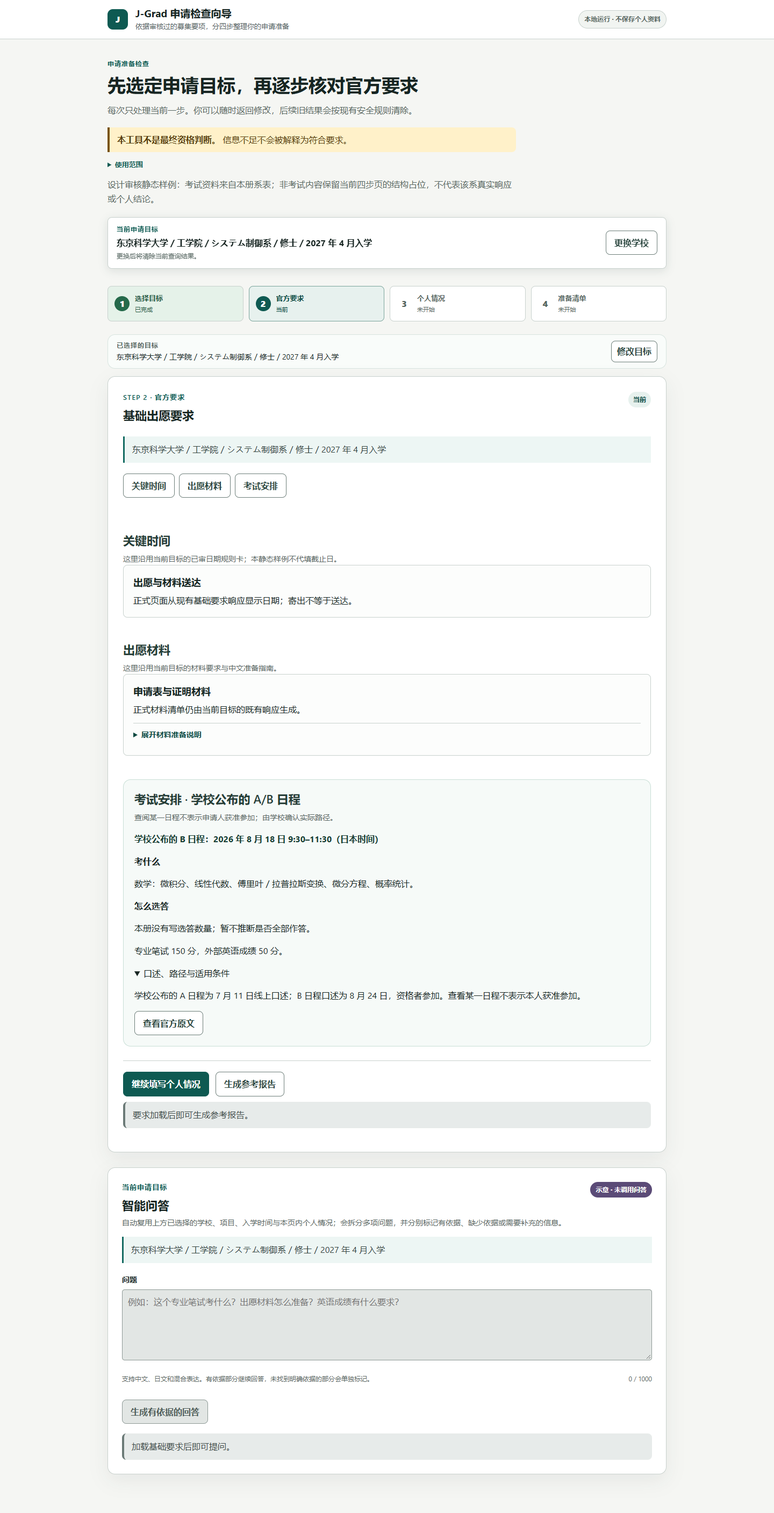
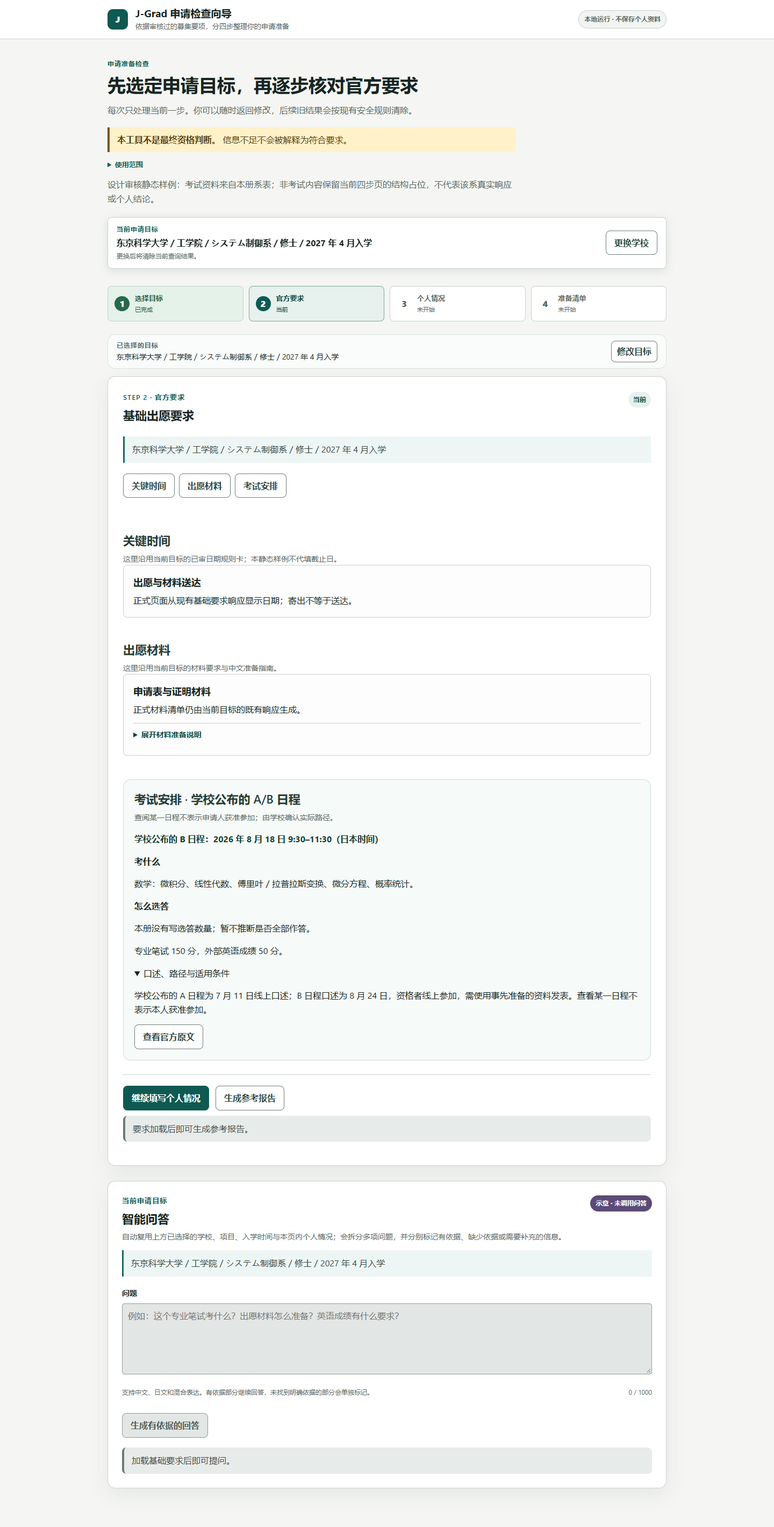
Complete exam source conditions and align v2 handoff

diff --git a/docs/onboarding/exam02a-current-page-candidate.py b/docs/onboarding/exam02a-current-page-candidate.py
@@ -31,8 +31,8 @@ SAMPLES = {
         "subjects": "数学：微积分、线性代数、傅里叶／拉普拉斯变换、微分方程、概率统计。",
         "selection": "本册没有写选答数量；暂不推断是否全部作答。",
         "points": "专业笔试 150 分，外部英语成绩 50 分。",
-        "oral": "学校公布的 A 日程为 7 月 11 日线上口述；B 日程口述为 8 月 24 日，资格者参加。查看某一日程不表示本人获准参加。",
-        "report": "考试安排（学校公布的日程；本人适用路径待学校确认）：A 日程为 2026 年 7 月 11 日线上口述。B 日程专业笔试为 2026 年 8 月 18 日 9:30–11:30，科目为数学，范围包括微积分、线性代数、傅里叶／拉普拉斯变换、微分方程、概率统计；本册未载选答数量。专业笔试 150 分，外部英语成绩 50 分。B 日程口述为 8 月 24 日，仅资格者参加。",
+        "oral": "学校公布的 A 日程为 7 月 11 日线上口述；B 日程口述为 8 月 24 日，资格者线上参加，需使用事先准备的资料发表。查看某一日程不表示本人获准参加。",
+        "report": "考试安排（学校公布的日程；本人适用路径待学校确认）：A 日程为 2026 年 7 月 11 日线上口述。B 日程专业笔试为 2026 年 8 月 18 日 9:30–11:30，科目为数学，范围包括微积分、线性代数、傅里叶／拉普拉斯变换、微分方程、概率统计；本册未载选答数量。专业笔试 150 分，外部英语成绩 50 分。B 日程口述为 8 月 24 日，资格者线上参加，需用事先准备的毕业研究或类似研究资料发表。",
     },
     "complex": {
         "college": "環境・社会理工学院",

diff --git a/docs/onboarding/exam02a-display-contract-candidate.md b/docs/onboarding/exam02a-display-contract-candidate.md
@@ -1,32 +1,34 @@
 # EXAM-02A #274：四步页展示与来源合同候选
 
-**设计检查点；未批准为 #275 生产合同。** 审核材料：[36 目标矩阵](exam02a-target-matrix.csv)、[187 项字段绑定](exam02a-field-bindings.json)、[原文账本](exam02a-source-ledger.md)、[逐系中文候选](exam02a-source-matrix.md)。本次不改变 API、页面、报告、规则、知识库或用户正在使用的网页。
+**#277 来源与 #278 隔离实现正在集中增量复审，尚未验收或合并。** 审核材料：[36 目标矩阵](exam02a-target-matrix.csv)、[187 项字段绑定](exam02a-field-bindings.json)、[原文账本](exam02a-source-ledger.md)、[逐系中文候选](exam02a-source-matrix.md)。#277 是来源候选，#278 已另设依赖分支实施只读 v2；规则、知识库及用户正在使用的网页未切换。
 
 ## 老师先看到什么
 
-复用现有两校四步页：第一步选目标；第二步原有**关键时间、英语与材料**之后放考试卡；第三步现有个人核对不改；第四步沿用现有可选报告。考试卡首屏只有“是否笔试／哪天多久”“考什么／如何选答”“怎么评价（已载分值与英语方式）”三块。口述对象、公布、语言和特殊条件放进原有 `<details>`；“查看官方原文”走现有来源窗口。手机同序单列，入口和摘要不在窄屏横向挤压。科目、选答和时段的数量都是数组，不限 3 组；文字按真实长度换行。不能把原文、`fact_type`、页路径或证据链直接铺在正文。
+复用现有两校四步页：第一步选目标；第二步原有**关键时间、英语与材料**之后放考试卡；第三步现有个人核对不改；第四步沿用现有可选报告。考试卡首屏只有“是否笔试／哪天多久”“考什么／如何选答”“怎么评价（已载分值与英语方式）”三块。口述对象、公布和语言放进原有 `<details>`；三系课程另册排除必须在默认考试摘要可见；“查看官方原文”走现有来源窗口。手机同序单列，入口和摘要不在窄屏横向挤压。科目、选答和时段的数量都是数组，不限 3 组；文字按真实长度换行。不能把原文、`fact_type`、页路径或证据链直接铺在正文。
 
 候选整页由[当前页面回放脚本](exam02a-current-page-candidate.py)直接加载 main 的 `advanced.html` 与 `app.css`，只把考试候选插入既有第二步 `#requirements-output`，保留 `flow-step`、完成步骤摘要、第三步修改、第四步准备清单、已有报告 drawer。システム制御系与建築学系各有桌面/手机的第二步、第四步截图；日期/材料/个人核对仅作当前结构的明确占位，不能作为对应系真实 API 响应。考试字段来自固定 PDF 页。第二步用“学校公布的 A/B 日程”查阅，不把 B 变成本人路线；报告主题默认不勾选。
 
 ## 建议的通用只读记录形状
 
-下列为供设计审核的**候选**，尚未冻结名称。当前 `POST /v1/base-requirements?include_examination_information=true` 的 1.0 响应保持原样，包括信息工学系 B 日程两批次。只有新调用显式请求 `include_examination_information=true&exam_presentation_version=2` 时返回下面的 v2 考试信息；不带参数、旧 `true` 请求、两校既有基础规则及报告 API 均不变。可选 `course_id` 也只在显式 v2 查询参数中提供（例：`&course_id=地球生命コース`），不加入旧 `DemoTargetRequest` 的目标身份；缺省为 `unspecified`。未知课程 ID fail closed，不能通过改写部门 ID 绕过排除。本设计不要求第一步新增路线或课程必填项。
+下列对应 #278 当前隔离实现的**只读 v2 字段形状**，仍待设计验收。当前 `POST /v1/base-requirements?include_examination_information=true` 的 1.0 响应保持原样，包括信息工学系 B 日程两批次。只有新调用显式请求 `include_examination_information=true&exam_presentation_version=2` 时返回下面的 v2 考试信息；不带参数、旧 `true` 请求、两校既有基础规则及报告 API 均不变。可选 `course_id` 也只在显式 v2 查询参数中提供（例：`&course_id=地球生命コース`），不加入旧 `DemoTargetRequest` 的目标身份；缺省为 `unspecified`。未知课程 ID fail closed，不能通过改写部门 ID 绕过排除。本设计不要求第一步新增路线或课程必填项。
 
 ```json
 {
-  "schema_version": "2.0-candidate",
-  "target_identity": {"school_id": "isct", "document_id": "isct_2027_4_2026_9_master", "college_id": "…", "department_id": "…", "degree_id": "master", "intake": {"year": 2027, "month": 4}, "application_route": null},
-  "status": "available_official_paths | not_covered_course | not_covered | unavailable",
-  "applicability": {"catalog_route": null, "personal_route_state": "unconfirmed", "course_state": "unspecified", "covered_course_ids": ["…"], "excluded_course_ids": ["earth_life"]},
-  "source_identity": {"source_pdf_sha256": "57f…", "source_kb_sha256": "7fa…"},
-  "year_basis": {"exam_year": 2026, "kind": "reviewed_cross_page_context", "physical_pages": [1, 2, 60]},
-  "pathways": [{"source_route": "a_schedule | b_schedule", "label_zh": "学校公布的A日程／B日程", "personal_eligibility": "unconfirmed", "written": {"status": "held | not_held | unknown", "sessions": [{"date": "2026-08-18", "start": "10:00", "end": "11:30", "minutes": 90}], "components": [{"label_zh": "共通科目", "subjects_zh": ["…"], "question_offer_count": 12, "answer_count": 12, "selection_rule_zh": "全部作答", "points": null}], "answer_language": null, "administration_language": null}, "english": {"assessment": "external_score | internal_written | unknown", "points": null, "submission_condition_zh": null}, "oral": {"status": "held | not_held | unknown", "dates": [], "eligibility_condition_zh": null, "announcement": null}}],
-  "evidence": [{"fact_id": "fact:00309", "pages": [60], "scope_type": "department", "scope_targets": ["建築学系"], "parent_college": "環境・社会理工学院", "official_text": "…", "highlights": []}],
-  "field_bindings": [{"field_path": "pathways[0].written.components[0].answer_count", "source_id": "fact:00309", "physical_page": 60, "printed_page": "60", "exact_text": "全問必答", "interpretation_zh": "共通科目 12 小题全部作答"}]
+  "schema_version": "2.0",
+  "status": "available_official_paths",
+  "target_identity": {"school_id": "isct", "department_id": "建築学系", "application_route": null},
+  "applicability": {"catalog_route": null, "personal_route_state": "unconfirmed", "course_state": "unspecified", "covered_course_ids": [], "excluded_course_ids": []},
+  "year_basis": {"exam_year": 2026, "kind": "reviewed_cross_page_context", "physical_pages": [1, 2], "department_page": 60},
+  "pathways": [
+    {"source_route": "a_schedule", "label_zh": "学校公布的 A 日程", "personal_eligibility": "unconfirmed", "written": {"status": "unknown", "time_zh": null, "subjects_zh": []}, "oral": {"status": "held", "description_zh": "A：7月11日"}},
+    {"source_route": "b_schedule", "label_zh": "学校公布的 B 日程", "personal_eligibility": "unconfirmed", "written": {"status": "held", "time_zh": "8/18 共通 10:00–11:30；专门 A 13:30–17:30 或专门 B 13:30–15:30", "subjects_zh": ["共通科目和专门科目的已审中文说明"], "selection_rule_zh": "按所有志愿导师共同指定选择", "points_zh": "专业 500", "answer_language_zh": null, "administration_language_zh": null}, "oral": {"status": "held", "description_zh": "8/25口头问答；须携带作品集"}, "english": {"submission_zh": "本系已审英语说明"}}
+  ],
+  "field_bindings": [{"field_path": "b.subjects", "value_zh": "已审中文值", "missing_reason_zh": null, "sources": [{"source_id": "fact:00309", "physical_pages": [60], "exact_text": "全問必答"}]}],
+  "evidence": [{"fact_id": "fact:00309", "pages": [60], "official_text": "官方原文"}]
 }
 ```
 
-这段结构说明**约束**，不是示例招生 JSON：省略号字段不允许作为生产值。`target_identity.application_route=null` 保持目录原值；`source_route` 仅标识官方资料的 A/B 行，查看 B、复制 B 或切换卡片均不得改写申请路线、资格或 Profile。`held`、`not_held`、`unknown` 防止把资料缺口说成“不举行”；未印配分用 `null`，不推算总分。`sessions` 表达分时段，`components` 表达共通/选答/导师指定的专门 A/B；`question_offer_count` 与 `answer_count` 分开。`administration_language` 转述“以日语实施”，`answer_language` 只在原文明确规定答案语言时赋值。科目组 A/B/C、专门科目 A/B 与招生 A/B 日程各用不同字段。
+上段是字段形状示意，非可运行招生响应；省略的完整目标身份、来源身份、官方标题及 PDF 路径由实际投影给出。#278 使用 `time_zh`、`subjects_zh`、`selection_rule_zh`、`points_zh`、`description_zh` 和逐字段 `field_bindings`，**没有**旧候选的 `sessions/components`、自动日期计算、`question_offer_count` 或口述 `dates` 数组。分时段和选答条件作为已审中文字段完整写出；不把这些未使用能力强行加入本轮生产。`target_identity.application_route=null` 保持目录原值；A/B 来源路径和本人资格分离。`not_held` 仅在原文明示时使用；未载细目仍写未知。字段来源绑定保留原文、页和 Fact 身份，正文与报告只输出中文整理。
 
 ### 五个必须同时成立的状态例子
 
@@ -35,8 +37,8 @@
 | システム制御系，目录 route=null，课程未提供 | `status=available_official_paths`、`personal_route_state=unconfirmed`、`course_state=unspecified`，`pathways` 并列官方 A 口述与 B 笔试/口述 | 可查阅两张官方日程卡；标题写“学校公布的”；报告若选考试主题，分别列 A/B 并写“本人适用路径待学校确认”，不写本人一定参加 B。 |
 | 情報工学系，目录 route=`b_schedule` | 旧请求仍是 1.0 原值；显式 v2 可为 `available_official_paths`、`personal_route_state=catalog_b` | B 内容与现有审核值一致；A 作为同册背景资料可查阅，但旧页面与旧报告不新增 A。 |
 | 社会・人間科学系，route=null | B `written.status=not_held`，依据 p.70 `fact:00330`；A 口述也 `not_held` | 卡片明确“学校公布的 B 日程不举行笔试，可能有书面筛选，8/18 或 19 口述”；报告不能生成空白笔试时间或“资料不足所以无笔试”。 |
-| 三系之一 `course_id=earth_life` | `status=not_covered_course`，`pathways=[]`，携带另册提示与课程排除来源，不附通用系表肯定结论 | 页面和报告都写“地球生命课程采用另册，本项目尚未覆盖该课程考试安排”；不继承系表，英语及其他已有规则仍按原有边界处理。 |
-| 建築学系，route=null，专门科目未确认 | A/B 官方日程并列；B 的共通十二题全答，专门 A 即日设计或专门 B 建筑科目六领域选一，`specialist_choice_state=unconfirmed` | 页面和报告列并行选择、各自时段，注明出愿时须按**所有志愿导师共同指定**选择；不代选、不推断资格，无导师数据库或必填新字段。 |
+| 三系之一 `course_id=地球生命コース` | `status=not_covered_course`，`pathways=[]`，携带另册提示与课程排除来源，不附通用系表肯定结论 | 页面和报告都写“地球生命课程采用另册，本项目尚未覆盖该课程考试安排”；不继承系表，英语及其他已有规则仍按原有边界处理。 |
+| 建築学系，route=null，专门科目未确认 | A/B 官方日程并列；B 的共通十二题全答，专门 A 即日设计或专门 B 建筑科目六领域选一，导师指定科目尚未在 Profile 中确认 | 页面和报告列并行选择、各自时段，注明出愿时须按**所有志愿导师共同指定**选择；不代选、不推断资格，无导师数据库或必填新字段。 |
 
 对三系课程使用同一版本化白名单：地球惑星科学系覆盖 `地球惑星科学コース`、排除 `地球生命コース`；応用化学系覆盖 `応用化学／原子核工学／人間医療科学技術／エネルギー・情報コース`、排除 `地球生命コース`；生命理工学系覆盖 `生命理工学／人間医療科学技術コース`、排除 `地球生命コース`。白名单与排除项来自 p.25/46/55 的课程栏与另册指示，[字段账本](exam02a-field-bindings.json)同时供服务校验、页面显示和报告读取。未提供课程时只说“本册所列课程的官方安排”，并显著提示地球生命另册未覆盖；明确提供非白名单未知课程时 fail closed。不得把三系整体停用。
 
@@ -47,8 +49,8 @@
 | 现有模块 | 审核后最小必要变化；本 PR 不实施 |
 |---|---|
 | `service/exam_presentation.py` 的 `load_exam_presentation` / `exam_response` | 将目前写死的 CS B scope、单一配置哈希、固定 3 组/题数/时段扩为经审核的只读记录集合；精确匹配学校、文档、学院、系、学位、批次，**不以 null route 匹配 B 本人资格**。分别载入本系官方 A/B 来源路径与个人适用状态，核实登记语料、PDF/KB 哈希、Fact 文本哈希、页、学院/系 scope、字段原文锚点和课程白名单/排除。缺件 fail closed；维持旧 1.0 CS B 行为。 |
-| `service/static/unified-core.mjs` 的 `validateExamInformation` / `examReportRows` | 1.0 原响应仍按现有白名单校验；v2 校验 `status`、课程与来源路径的分离、变长 `sessions/components`。明确 `not_held` 才可写“不举行”；未知空值不当作 0 分或无要求。报告句子写明“学校公布的”日程和本人适用未知，且按来源字段组装，不依赖证据数组第 0/1/2 项。`not_covered_course` 不输出该系笔试/口述肯定结论。 |
-| `service/static/app.js` 的 `renderExamCard` / 第二步顺序 | 对 null 目录目标并列显示“学校公布的 A 日程”“学校公布的 B 日程”，不改变第一步/个人 Profile；卡片按组件循环显示科目、选法、时间，口述折叠。沿用 `advanced.html` 的 `flow-step`、日期/材料/考试页内导航和现有原文按钮 `openDemoEvidence`；来源按字段 ID 查找、焦点回原触发按钮。CS 旧 1.0 B 卡保留。 |
+| `service/static/unified-core.mjs` 的 `validateExamInformation` / `examReportRows` | 1.0 原响应仍按现有白名单校验；v2 校验 `status`、课程与来源路径的分离、中文时段／科目字段与逐字段来源绑定。明确 `not_held` 才可写“不举行”；未知空值不当作 0 分或无要求。报告句子写明“学校公布的”日程和本人适用未知，且按来源字段组装，不依赖证据数组第 0/1/2 项。`not_covered_course` 不输出该系笔试/口述肯定结论。 |
+| `service/static/app.js` 的 `renderExamCard` / 第二步顺序 | 对 null 目录目标并列显示“学校公布的 A 日程”“学校公布的 B 日程”，不改变第一步/个人 Profile；卡片展示已审中文科目、选法和时段，口述折叠。沿用 `advanced.html` 的 `flow-step`、日期/材料/考试页内导航和现有原文按钮 `openDemoEvidence`；来源按字段 ID 查找、焦点回原触发按钮。CS 旧 1.0 B 卡保留。 |
 | 报告主题和来源窗口 | 考试主题**默认不勾选**；选中才加入考试段落。生成、预览与复制使用同一已审核文本映射；独立复制必须有科目名称，不用“如上”。来源后台保留，不向正文输出 `fact_type` 等内部字段。打开原文显示对应页与条款，可返回/关闭。 |
 
 新记录不得直接从 KB 运行时搜索决定展示；先由设计审核中文和作用域，再发布固定版本配置。配置中的 `source_identity`、每个 Fact 的 scope/页/text SHA 与 `field_bindings.exact_text` 均要与登记语料比对；封面无 Fact 时明确使用 `pdf_page` 锚点，不捏造 ID。`fact_type` 不能决定是否是考试事实：现有信息工学系 `fact:00288` 和电气电子 `fact:00230` 的类型均可能因表格抽取而不匹配。
@@ -66,12 +68,12 @@
 
 ## 待设计独立验收的边界
 
-上面的路线并列查阅、课程排除、2026 年跨页依据、建筑未选专门科目和英语冲突标记是本轮设计审查意见指定的候选决策；需审核来源与字段后才可作为 #275 正式合同。尚缺的地球生命另册不得下载补入，本册未载的选答数／配分保持空值。#275 当前仍 Blocked，本 PR 不实施 Schema 或前端功能。
+上面的路线并列查阅、课程排除、2026 年跨页依据、建筑未选专门科目和英语冲突标记是本轮设计审查意见指定的候选决策；需审核来源与字段后才可作为 #275 正式合同。尚缺的地球生命另册不得下载补入，本册未载的选答数／配分保持空值。#278 已在独立依赖分支实施显式 opt-in v2；#277 与 #278 均待集中验收，不能合并或切换在线页。
 
 ## 本检查点的可复核证据与资源
 
 - 已逐页目视核对 18 系主表：PDF 物理页 p.19、21、23、25、27、31、33、37、40、42、46、50、52、55、60、63、66、70；另看 p.1 封面、p.2 共通流程和续表 p.34、41、61，共 **23 个既有 PDF 页**。页图仅在忽略的本地缓存中渲染供检查，未复制或修改 PDF。CSV 有 **36 条精确目录目标**，其中 34 条当前 route 为空，2 条信息工学系为 `b_schedule`。
-- 既有 PDF 85 页、5,088,401 字节；既有 391 Fact KB 3,361,076 字节。按上列 SHA-256 只读核对。[字段覆盖检查](exam02a-field-map-check.py)验证 **18 系、36 目标、187 字段、608 条来源锚点**的 Fact 文本 SHA、页、学院/系作用域及原文。p.40 纵向备注和三系课程栏是标明的人工 PDF 页锚点；“子串存在”本身不充当中文语义验收。
+- 既有 PDF 85 页、5,088,401 字节；既有 391 Fact KB 3,361,076 字节。按上列 SHA-256 只读核对。[字段覆盖检查](exam02a-field-map-check.py)验证 **18 系、36 目标、187 字段、611 条来源锚点**的 Fact 文本 SHA、页、学院/系作用域及原文。p.40 纵向备注和三系课程栏是标明的人工 PDF 页锚点；“子串存在”本身不充当中文语义验收。
 - 静态 Edge/Playwright 直接加载当前 main 的 `advanced.html`、`app.css`，没有旧 `unified.css` 侧栏。简单系：[第二步桌面](exam02a-evidence/simple-exam-desktop.png)、[第二步手机](exam02a-evidence/simple-exam-mobile.png)、[第四步桌面](exam02a-evidence/simple-readiness-desktop.png)、[第四步手机](exam02a-evidence/simple-readiness-mobile.png)；复杂系：[第二步桌面](exam02a-evidence/complex-exam-desktop.png)、[第二步手机](exam02a-evidence/complex-exam-mobile.png)、[第四步桌面](exam02a-evidence/complex-readiness-desktop.png)、[第四步手机](exam02a-evidence/complex-readiness-mobile.png)。[回放记录](exam02a-evidence/current-page-replay.json)验证原四步 DOM、完成步骤压缩、第三步修改入口、第四步材料待办、日期/材料/考试定位、口述/指南折叠、原文窗口、报告默认不勾选及两种复制文本、无横向溢出/页面错误。仅内存 GET `/app`、`/assets/app.css`；日期/材料/个人核对为清楚标记的结构占位，**不能证明真实 API 或 #275 生产体验**。
 - 两例各保存了报告主题[未选时的复制文本](exam02a-evidence/simple-report-default.txt)、[选中考试后的复制文本](exam02a-evidence/simple-report-exam.txt)，以及建筑的[未选文本](exam02a-evidence/complex-report-default.txt)和[选中考试文本](exam02a-evidence/complex-report-exam.txt)。这些文本与静态样例使用同一候选状态，不冒充正式服务生成的报告。
 - 本项累计资源：真实服务启动 **0**；真实产品 POST **0**；付费模型 **0**；下载 **0**；PDF 解析重跑 **0**；KB/向量构建 **0**；受保护资产写入／复制 **0**。仅只读 PDF、391 KB、保存目录响应及本地静态浏览器。没有切换在线预览。

diff --git a/docs/onboarding/exam02a-source-matrix.md b/docs/onboarding/exam02a-source-matrix.md
@@ -8,24 +8,24 @@
 
 | 学院／系（各 2 批次） | catalog route | 页／主 Fact | B 笔试；时段 | 科目／选答方式 | 配分；英语 | B 口述；状态 |
 |---|---|---|---|---|---|---|
-| 理学院／数学系 | null | 19／00150 | 8/18 9:00–11:30、13:00–15:00；另有英语笔试 15:40–16:40 | 数学，范围见原文；选答数未载 | 专业 350；外部英语成绩单**不需要**，英语笔试为必要条件 | 8/20，资格者；**待路线确认** |
+| 理学院／数学系 | null | 19／00150 | 8/18 9:00–11:30、13:00–15:00；另有英语笔试 15:40–16:40 | 数学系截至第12学季课程同等程度为基础；原文提示参考课程纲要，外部细目未整理；选答数未载 | 专业 350；外部英语成绩单**不需要**，英语笔试为必要条件 | 8/20，资格者；**待路线确认** |
 | 理学院／物理学系 | null | 21／00182 | 8/18 9:30–11:30、13:30–15:30 | 力学、电磁学、物理数学、量子、统计、实验；无选答题 | 专业 300、外部英语 60；成绩单笔试当天提交 | 8/25；**待路线确认** |
 | 理学院／化学系 | null | 23／00190 | 8/18 13:30–16:00 | 共通题涉及物理化学、无机与分析化学、有机化学；选答题在这三领域各出 2 题，共 6 题中选 2 题 | 共通 300、选答 400、外部英语 200 | 8/25；**待路线确认** |
 | 理学院／地球惑星科学系 | null | 25／00197–203 | 8/18 9:30–12:30 | 数学 1、物理 2、化学／地球 3；共出 6 选答 3 | 专业 300、外部英语 75 | 8/20，笔试考生均参加；**地球生命课程另册缺失** |
 | 工学院／機械系 | null | 27／00207 | 8/18 9:30–12:30 | 材料力学、机械动力学、热力学、流体力学；选答数未载 | 专业 400、外部英语 100 | 8/25；**待路线确认** |
-| 工学院／システム制御系 | null | 31／00220 | 8/18 9:30–11:30 | 数学：微积分、线代、Fourier/Laplace、微分方程、概率统计；选答数未载 | 专业 150、外部英语 50 | 8/24，资格者、线上；**待路线确认** |
+| 工学院／システム制御系 | null | 31／00220 | 8/18 9:30–11:30 | 数学：微积分、线代、Fourier/Laplace、微分方程、概率统计；选答数未载 | 专业 150、外部英语 50 | 8/24，资格者线上口头问答；须用事先准备的资料发表（毕业研究或类似研究） |
 | 工学院／電気電子系 | null | 33–34／00227、00230 | 8/18 9:30–12:10 | 必考数学及电磁学；电路／量子物性基础二选一 | 数学 300、电磁 300、选答 200、外部英语 150；总分 950 为原文 | **同日** 8/18 口述；**待路线确认** |
-| 工学院／情報通信系 | null | 37／00238 | 8/18 数学 9:30–11:00、短文 11:30–12:30 | 数学 1 题与通信短文 1 题，均须作答 | 数学 300、短文 200、外部英语 100 | 8/24 或 25，资格者；**待路线确认** |
+| 工学院／情報通信系 | null | 37／00238 | 8/18 数学 9:30–11:00、短文 11:30–12:30 | 数学（微积分、线性代数）1题与信息通信领域论述题1题，均须作答 | 数学 300、短文 200、外部英语 100 | 8/24或25，笔试成绩靠前者个人面谈；日语进行，可用日语或英语回答 |
 | 工学院／経営工学系 | null | 40–41／00247、00252 | 8/18 10:00–11:20 | 数理领域出 1 题：线性代数、微积分、基础数理、数理工学、概率统计；未载选答 | 专业 200、外部英语 50 | 8/25；**待路线确认** |
 | 物質理工学院／材料系 | null | 42／00256 | 8/18 9:30–12:00 | I 组：数学、力学、物理化学、有机化学Ⅰ、材料力学、无机固体物性学、高分子化学；II 组：电磁学、热力学、量子力学、有机化学Ⅱ、金属组织学、无机化学。**每组各选 2 题，共答 4 题**；不是选 2 个领域 | 专业 400、外部英语 150 | 8/24，线上；**待路线确认** |
 | 物質理工学院／応用化学系 | null | 46／00270 | 8/18 13:30–14:40、14:55–16:05 | 两时段各从有机化学、无机化学、物理化学、化学工学、高分子科学中选 **2 科目作答**；细项另见系网页，当前未持有 | 专业 400、外部英语 100 | 8/25，线上；**地球生命课程另册缺失** |
 | 情報理工学院／数理・計算科学系 | null | 50／00280 | 8/18 9:00–12:30 | 数学、计算机科学多题中选“数题”；具体数量未载 | 专业 100、外部英语 20 | 8/24–25，资格者；**待路线确认** |
 | 情報理工学院／情報工学系 | b_schedule | 52／00288 | 8/18 9:30–12:00 | A 组微积分、线性代数、概率统计；B 组数理逻辑、自动机与形式语言；C 组数据结构与算法、编程。**每组各出一题，共三题**；不是学生自选三题 | 专业 900、外部英语 100 | 8/24，资格者；**已有 B 规则，仅本项可按 B 适用** |
-| 生命理工学院／生命理工学系 | null | 55／00296 | 8/18 9:30–11:00 | 生化／生物／有机／物化各 2 题，共出 8 选答 4 | 专业 400、外部英语 100 | 8/24，资格者、线上；**地球生命课程另册缺失** |
-| 環境・社会理工学院／建築学系 | null | 60–61／00309、00312 | 8/18 共通 10:00–11:30；专门 A 13:30–17:30 或专门 B 13:30–15:30 | 共通：建筑规划、城市与城镇建设、建筑结构与结构力学、建筑环境与设备工程、建筑材料与施工、建筑历史与设计六领域，各 2 小题、共 12 题全答；专门 A 即日设计**或**专门 B 在上述六领域中选 1（历史与设计为小论文），出愿时按所有志愿导师的共同指定选定 | 专业 500；英语配分本系表未载 | 8/25；**专门科目依导师，路线和科目需确认** |
+| 生命理工学院／生命理工学系 | null | 55／00296 | 8/18 9:30–11:00 | 生化／生物／有机／物化各 2 题，共出 8 选答 4 | 专业 400、外部英语 100 | 8/24，资格者线上口头问答；当日9:00前进入指定线上会场；地球生命课程另册未覆盖 |
+| 環境・社会理工学院／建築学系 | null | 60–61／00309、00312 | 8/18 共通 10:00–11:30；专门 A 13:30–17:30 或专门 B 13:30–15:30 | 共通：建筑规划、城市与城镇建设、建筑结构与结构力学、建筑环境与设备工程、建筑材料与施工、建筑历史与设计六领域，各 2 小题、共 12 题全答；专门 A 即日设计**或**专门 B 在上述六领域中选 1（历史与设计为小论文），出愿时按所有志愿导师的共同指定选定 | 专业 500；英语配分本系表未载 | 8/25口头问答；须携带作品集（图纸或毕业研究等）；专门科目依志愿导师指定 |
 | 環境・社会理工学院／土木・環境工学系 | null | 63／00315 | 8/18 基础 10:00–11:30、专业 13:30–15:30 | 基础微分方程／线代／概率；专业结构／水力／土质／混凝土／规划；选答数未载 | 专业 400、外部英语 100；不参加 A 者英语成绩单有 7/29 必达的特殊邮寄规则 | 8/25；**待路线确认** |
 | 環境・社会理工学院／融合理工学系 | null | 66／00322 | 8/18 A 题 10:00–11:30、B 题 13:00–14:30 | A 在物理／化学生物／短文阅读选 1；B 在数学／数理推理选 1；部分科目再有小题选答 | A 100、B 100、外部英语 75 | 8/25，线上；**待路线确认** |
-| 環境・社会理工学院／社会・人間科学系 | null | 70／00330 | B **不举行笔试** | 书面筛选可能有，后续线上日语口述；不存在笔试科目／时长 | 英语成绩单出愿时提交；本系表**未载英语评价分值** | 8/18 **或** 19；**待路线确认** |
+| 環境・社会理工学院／社会・人間科学系 | null | 70／00330 | B **不举行笔试** | 明确不举行笔试；不存在笔试科目／时长 | 英语成绩单出愿时提交；本系表**未载英语评价分值** | 8/18或19线上日语口头问答；可能根据出愿材料筛选对象 |
 
 每行中文是供审核的摘要，字段级日文定位和条件见[来源账本](exam02a-source-ledger.md)。不得把“资料未载选答数量”改成“全部必答”，也不得把有条件的口述写成本人确定参加。上述 B 考试表均存在；目录没有具体路线的 17 系不能自动展示为已选 B。A 日程资料只可作为路径说明候选，不能套用 B 时间表。
 
@@ -40,7 +40,7 @@
 | 数学系 | 明确不举行 | 19／00150 | 不应把来源缺失写为不举行 |
 | 物理学系 | 明确不举行 | 21／00182 | B 笔试取消后的替代口述是例外，不是 A |
 | 化学系 | 7 月 15 日 | 23／00190 | 以申请材料筛选对象，非人人自动参加 |
-| 地球惑星科学系 | 7 月 10 日或 13 日 | 25／00197 | 原文写英语口述；地球生命另册除外 |
+| 地球惑星科学系 | 7 月 10 日或 13 日，以英语口述 | 25／00197 | 地球生命另册除外 |
 | 機械系 | 7 月 11 日 | 27／00207 | 原文允许线上方式；核对公告 |
 | システム制御系 | 7 月 11 日 | 31／00220 | 线上口述 |
 | 電気電子系 | 7 月 11 日 | 34／00230 | 线上、日语 |

diff --git a/docs/onboarding/exam02a-source-ledger.md b/docs/onboarding/exam02a-source-ledger.md
@@ -1,6 +1,21 @@
 # EXAM-02A：逐字段日文定位账本（设计候选）
 
-**本轮复审主账本**为 [187 个明确字段及 608 条字段→来源锚点](exam02a-field-bindings.json)，覆盖 18 系与两批次目标；[覆盖校验脚本](exam02a-field-map-check.py)逐项检查 36 目标、字段存在、Fact SHA/页/学院系 scope/原文锚点。下面保留首次盘点的关键词行作为人工索引，**不再以“摘录是子串”代替字段覆盖**。多行表格仍按原 PDF 行列判断，尤其是 p.40 纵向语言备注。
+**本轮复审主账本**为 [187 个明确字段及 611 条字段→来源锚点](exam02a-field-bindings.json)，覆盖 18 系与两批次目标；[覆盖校验脚本](exam02a-field-map-check.py)逐项检查 36 目标、字段存在、Fact SHA/页/学院系 scope/原文锚点。下面保留首次盘点的关键词行作为人工索引，**不再以“摘录是子串”代替字段覆盖**。多行表格仍按原 PDF 行列判断，尤其是 p.40 纵向语言备注。
+
+本轮 S1 增量核对了已绑定口述字段及科目范围。下表为容易在页面和报告中遗漏的准备条件；路径以 [字段映射](exam02a-field-bindings.json) 为准，个人是否获准参加仍由学校确认。
+
+| 系／字段 | 页／Fact | 原文锚点与中文作用 |
+|---|---|---|
+| 数学系 `b.subjects` / `b.oral` | p.19 `fact:00150` | 「第 12 クォーターまでの数学系の講義と同程度の内容」：范围为截至第12学季课程同等程度，纲要细目未持有；「(対面)」：口头问答现场进行。 |
+| 情報通信系 `b.subjects` / `b.oral` | p.37 `fact:00238` | 「微分積分、線形代数の 1 問」「情報通信分野に関する論述問題 1 問」：数学和论述各一题；「口頭試問は日本語で行います」「回答する言語は日本語・英語どちらでも可」：日语进行，可用日语或英语回答。 |
+| 社会・人間科学系 `b.subjects` / `b.oral` | p.70 `fact:00330` | 「筆答試験 実施しません」只说明无笔试；「試験はオンラインにて、日本」「語で行います。」合读为线上日语口头问答；「出願書類をもとに評価し、口頭試問受験資格者を選抜する」是可能筛选口述对象。 |
+| 地球惑星科学系 `a.oral` / `b.subjects` | p.25 `fact:00197` / `00198–00201` | 「画を中心とした試問（英語で行います）。」仅属 A 口述，已从 B 笔试依据移走；B 笔试由数学、物理、化学／地球三组及六选三锚点支撑。 |
+| システム制御系 `b.oral` | p.31 `fact:00220–00221` | 「あらかじめ受験者が準備した資料を用いた発表」：需事先准备资料发表；原文限定当前毕业研究或类似研究，且仅口述资格者参加。 |
+| 生命理工学系 `b.oral` | p.55 `fact:00297` | 「口頭試問はオンラインで行います。当日の 9：00 までに、指定するオンラインサイトに集合」：线上，9:00前进入指定会场；地球生命另册仍未覆盖。 |
+| 建築学系 `b.oral` | p.61 `fact:00312` | 「ポートフォリオ（設計製図の作品(図面)または卒業研究」：口头问答须携带可展示过往设计或研究的作品集；导师指定笔试科目是独立条件。 |
+| 融合理工学系 `a.oral` / `b.oral` | p.66 `fact:00322` | 「口述試験で使用する言語は日本語・英語どちらでも可」「口頭試問で使用する言語は日本語・英語どちらでも可」：A/B 口述可用日语或英语；B 笔试仍须日语作答。 |
+
+其余已绑定口述逐系核对后保持既有日期和资格表述；未将缺少的方式、语言或准备条件推断为不存在。
 
[1 lines of base64/hex data omitted]
 

diff --git a/docs/roadmap.md b/docs/roadmap.md
@@ -1,5 +1,10 @@
 # Project Roadmap
 
+## 2026-10-02：EXAM-02 来源与实现集中返修中
+
+[#277](https://github.com/yasu-isct/J-Grad-Admission-RAG/pull/277) 的来源候选与依赖它的 [#278](https://github.com/yasu-isct/J-Grad-Admission-RAG/pull/278) 隔离实现已提交，设计集中审查为 Changes requested。当前修正科目／口述条件、字段完整原文入口、三系课程范围默认提示和授权的 M9 单字段指纹；两 PR 均未验收或合并，在线页未切换。此前“#275 Blocked／不得实施”是早期单项检查点要求，已由用户批准的连续开发、成果集中验收安排取代；后续旧段落作为历史保留。
+
+
 ## Current M17 handoff: EXAM-02A #274 design checkpoint
 
 2026-10-01: #276 was accepted and merged; #272 is closed. #274 was the only released M17 task. M17 Main has submitted the 18-department × 2-intake source and four-step-page display candidate in [PR #277](https://github.com/yasu-isct/J-Grad-Admission-RAG/pull/277) for independent design review; it is not yet accepted or merged. [Candidate matrix](onboarding/exam02a-source-matrix.md), [source ledger](onboarding/exam02a-source-ledger.md), and [display contract](onboarding/exam02a-display-contract-candidate.md) are **not approved production rules**. #275 remains blocked pending #274 source and display contract acceptance; do not start its implementation. This checkpoint used no service, product POST, paid call, download, parser rerun, KB/index build, or online preview switch. The older no-Ready statements below are historical.

diff --git a/docs/checkpoints/post-single-school-design-handoff.md b/docs/checkpoints/post-single-school-design-handoff.md
@@ -1,5 +1,10 @@
 # Post-single-school Design Handoff
 
+## 2026-10-02：EXAM-02 来源与实现集中返修中
+
+[#277](https://github.com/yasu-isct/J-Grad-Admission-RAG/pull/277) 的来源候选与依赖它的 [#278](https://github.com/yasu-isct/J-Grad-Admission-RAG/pull/278) 隔离实现已提交，设计集中审查为 Changes requested。当前修正科目／口述条件、字段完整原文入口、三系课程范围默认提示和授权的 M9 单字段指纹；两 PR 均未验收或合并，在线页未切换。此前“#275 Blocked／不得实施”是早期单项检查点要求，已由用户批准的连续开发、成果集中验收安排取代；后续旧段落作为历史保留。
+
+
 ## 2026-10-01：EXAM-02A #274 来源与展示设计候选
 
 #276 已验收合并，#272 收尾；#274 是本轮唯一放行任务，其 18 系 × 2 入学批次资料与四步页候选现已提交 [PR #277](https://github.com/yasu-isct/J-Grad-Admission-RAG/pull/277)，待设计独立审核，未合并。资料矩阵、原文定位与通用合同见 [EXAM-02A 候选](../onboarding/exam02a-display-contract-candidate.md)。17 个系的目录路线为空，不能自动视为 B 日程；地球生命课程另册和建筑导师指定科目是待设计决断。#275 继续 Blocked，候选 PR 不包含生产功能。真实服务／产品 POST／付费／下载／解析／构建为 0；只读 PDF 和 391 KB，静态截图用本地浏览器生成。
